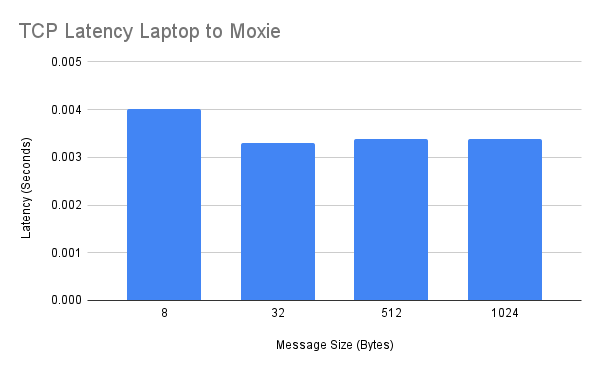
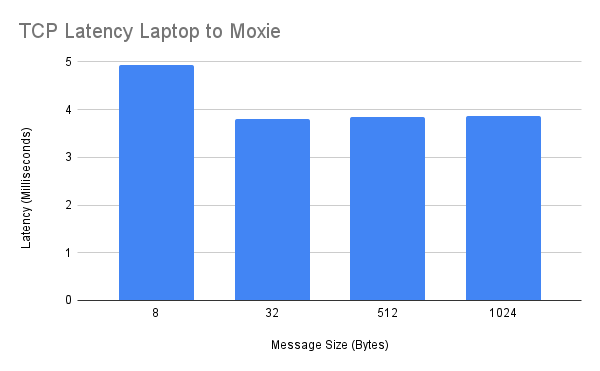
Changed benchmark scaling

diff --git a/src/main/java/ClientTypes/UDPClient.java b/src/main/java/ClientTypes/UDPClient.java
@@ -49,7 +49,7 @@ public class UDPClient extends Client {
             //begin timer
             long curTime = System.nanoTime();
 
-            //encrypt data
+            //encrypt and send the data
             serverSocket.send(new DatagramPacket(Runner.XOREncryptDecrypt.EncryptDecrypt(msg), msg.length, ip, Port));
             //receive the server's attempt to decrypt the data
             serverSocket.receive(receivedPacket);
@@ -57,7 +57,7 @@ public class UDPClient extends Client {
                 System.out.println("Error: Messages Do Not Match.");
 
             //add the total time this process took to the total time
-            totalTime+=(System.nanoTime()-curTime)/1E9;
+            totalTime+=(System.nanoTime()-curTime)/1E6;
         }
 
         //tell server to stop taking data
@@ -67,7 +67,7 @@ public class UDPClient extends Client {
         receivedPacket = new DatagramPacket(new byte[msg.length], msg.length);
         serverSocket.receive(receivedPacket);
 
-        System.out.println(totalTime/1000.0 + " seconds for " + msg.length + " bytes");
+        System.out.println(totalTime/1000.0 + " milliseconds for " + msg.length + " bytes");
         serverSocket.close();
     }
 
@@ -93,8 +93,8 @@ public class UDPClient extends Client {
 
         //calculate and print throughput
         double timeInSecs = ((double) (System.nanoTime() - startTime))/1E9;
-        double throughput = (numOfMsgs * msg.length * 8)/timeInSecs;
-        System.out.println(numOfMsgs + "X" + msg.length + "B: " + throughput + " b/s");
+        double throughput = ((numOfMsgs * msg.length * 8)/1E6)/timeInSecs;
+        System.out.println(numOfMsgs + "X" + msg.length + "B: " + throughput + " Mb/s");
 
         //Tell the server to stop accepting messages
         packet = new DatagramPacket("STOP".getBytes(), "STOP".getBytes().length, ip, Port);

diff --git a/src/main/java/ClientTypes/TCPClient.java b/src/main/java/ClientTypes/TCPClient.java
@@ -60,7 +60,7 @@ public class TCPClient extends Client {
                 System.out.println("Error. Messages do not match");
             }
             //add the time this process took to the total time
-            totalTime+=(System.nanoTime()-curTime)/1E9;
+            totalTime+=(System.nanoTime()-curTime)/1E6;
             out.flush();
         }
         //tell the server to stop taking in data
@@ -68,7 +68,7 @@ public class TCPClient extends Client {
         byte[] ackMsg = new byte[msg.length];
         in.read(ackMsg);
         //print out the average latency
-        System.out.println(totalTime/1000.0 + " seconds for " + msg.length + " bytes");
+        System.out.println(totalTime/1000.0 + " milliseconds for " + msg.length + " bytes");
         out.flush();
 
     }
@@ -92,8 +92,8 @@ public class TCPClient extends Client {
 
         //calculate and print throughput
         double timeInSecs = ((double) (System.nanoTime() - startTime))/1E9;
-        double throughput = (numOfMsgs * msg.length * 8)/timeInSecs;
-        System.out.println(numOfMsgs + "X" + msg.length + "B: " + throughput + " b/s");
+        double throughput = ((numOfMsgs * msg.length * 8)/1E6)/timeInSecs;
+        System.out.println(numOfMsgs + "X" + msg.length + "B: " + throughput + " Mb/s");
 
         //tell server to stop waiting for messages
         out.write("STOP".getBytes());
